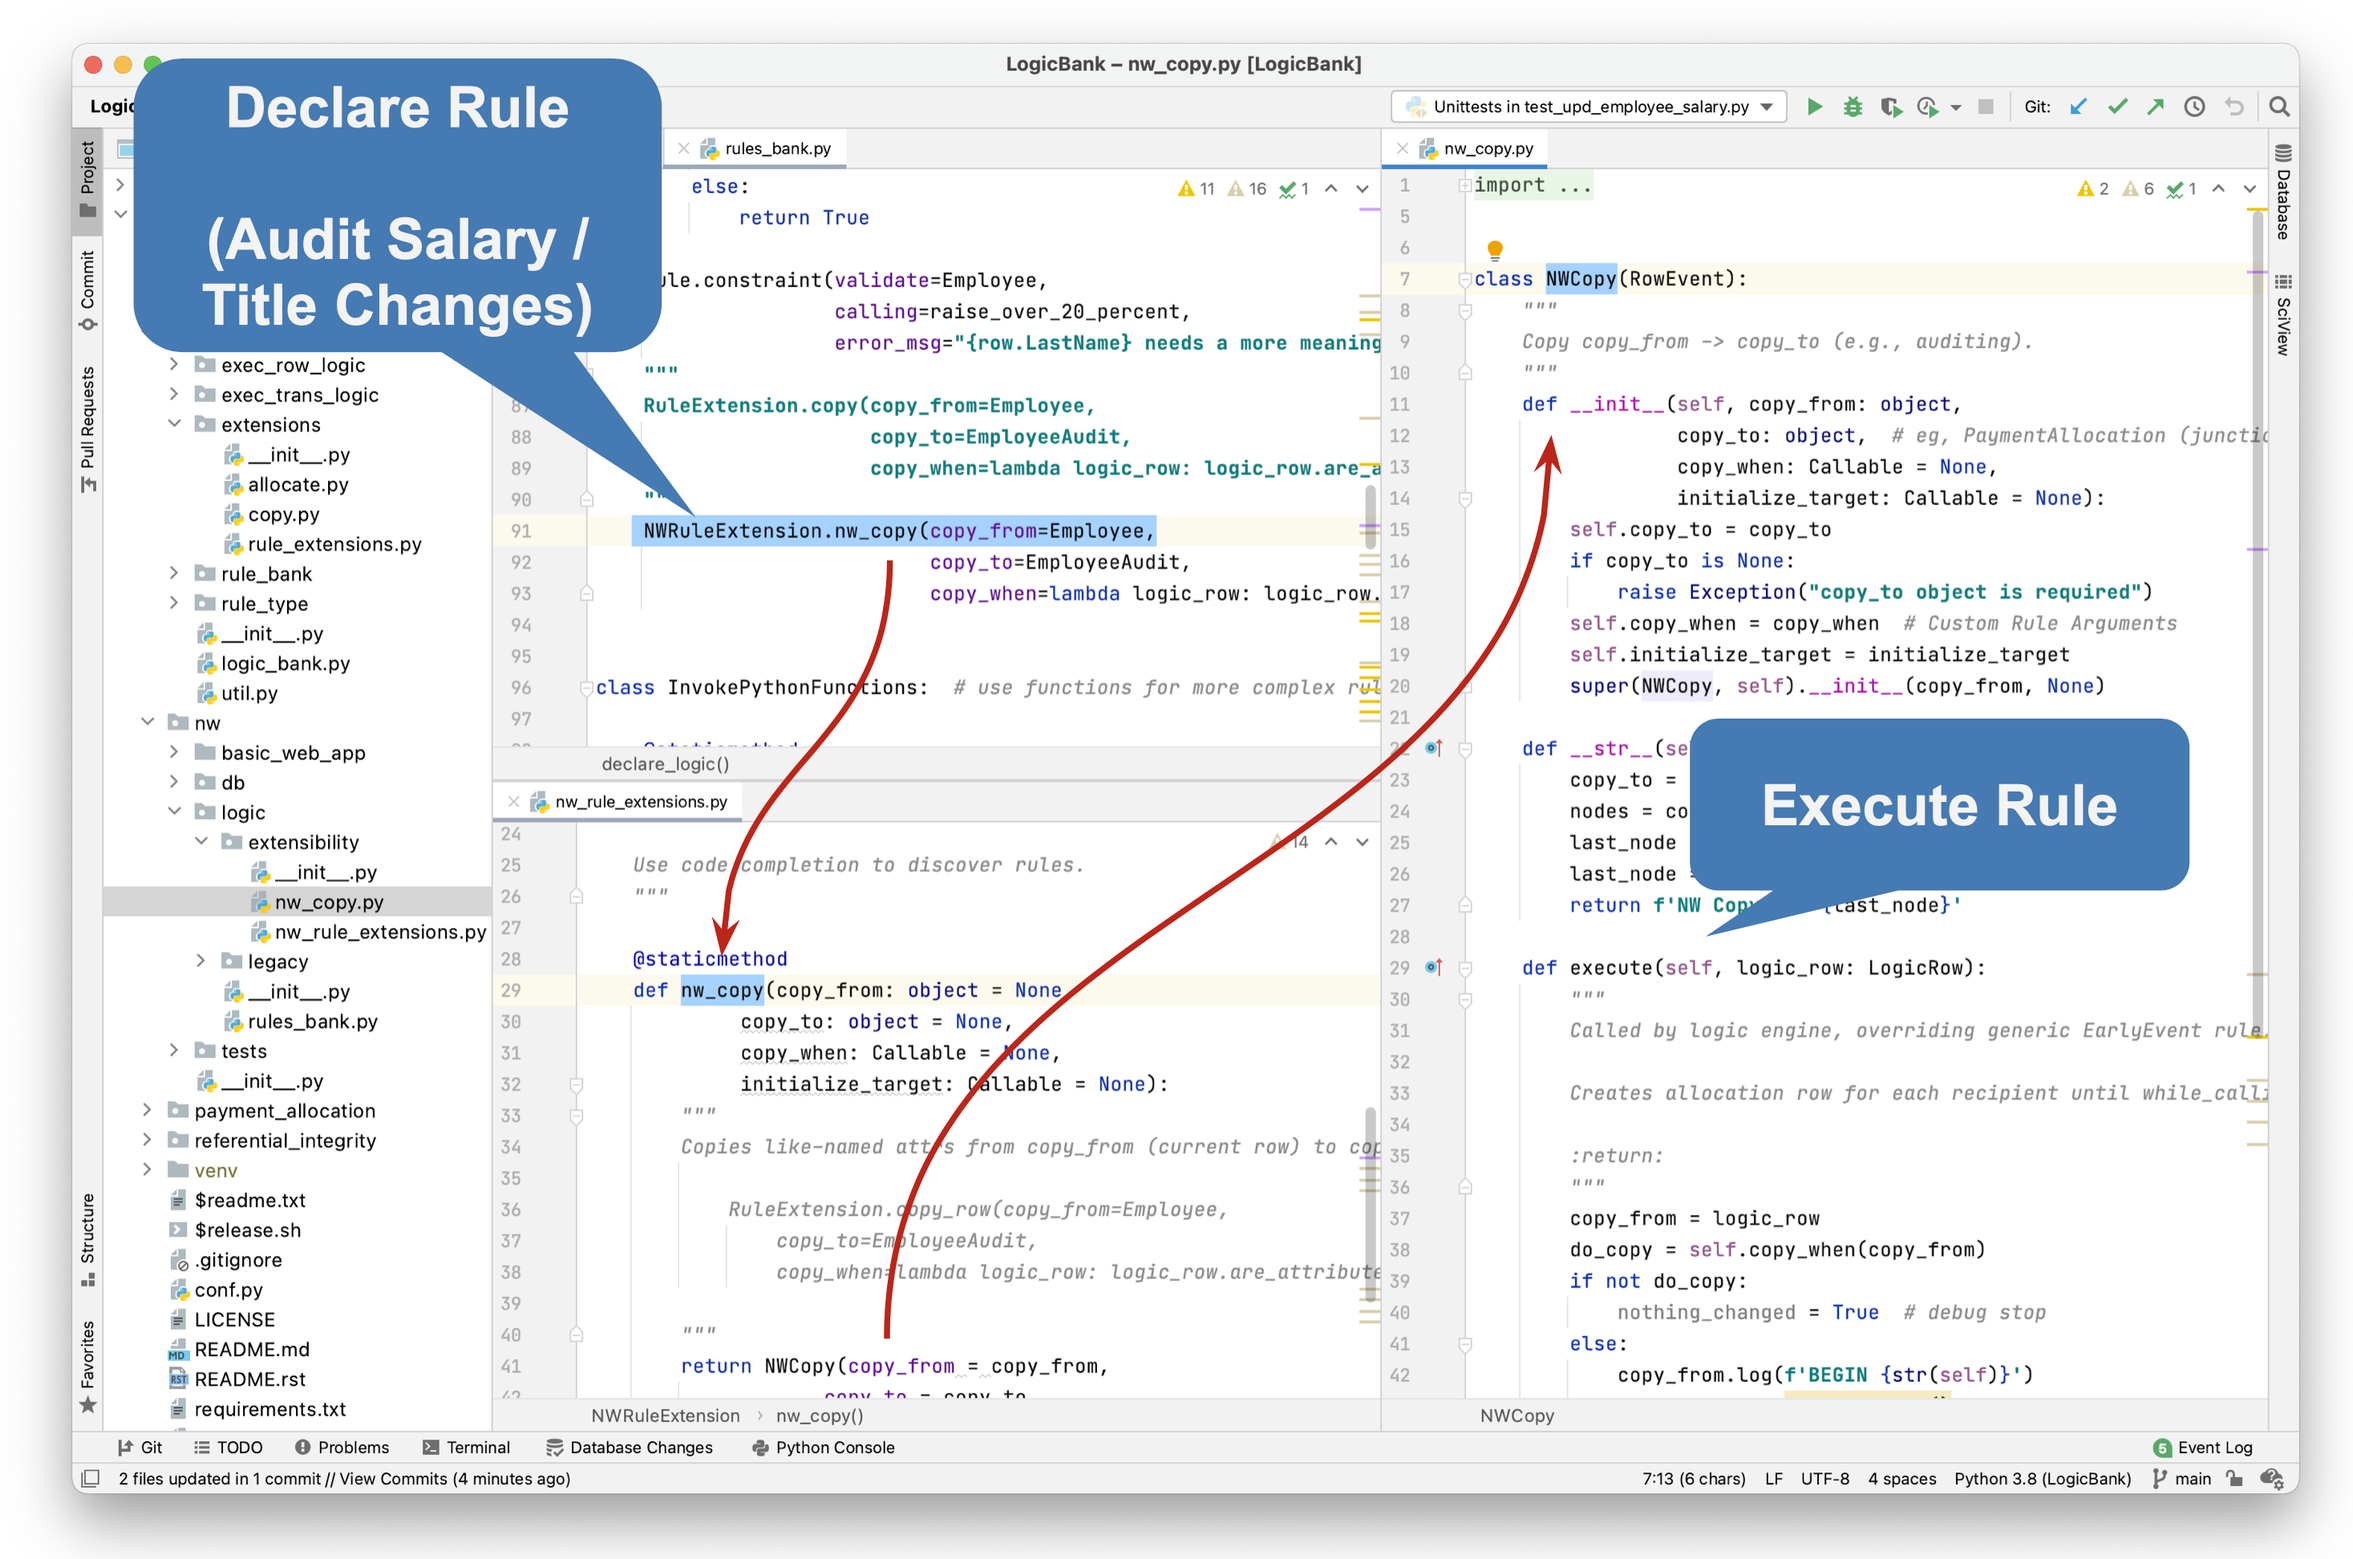
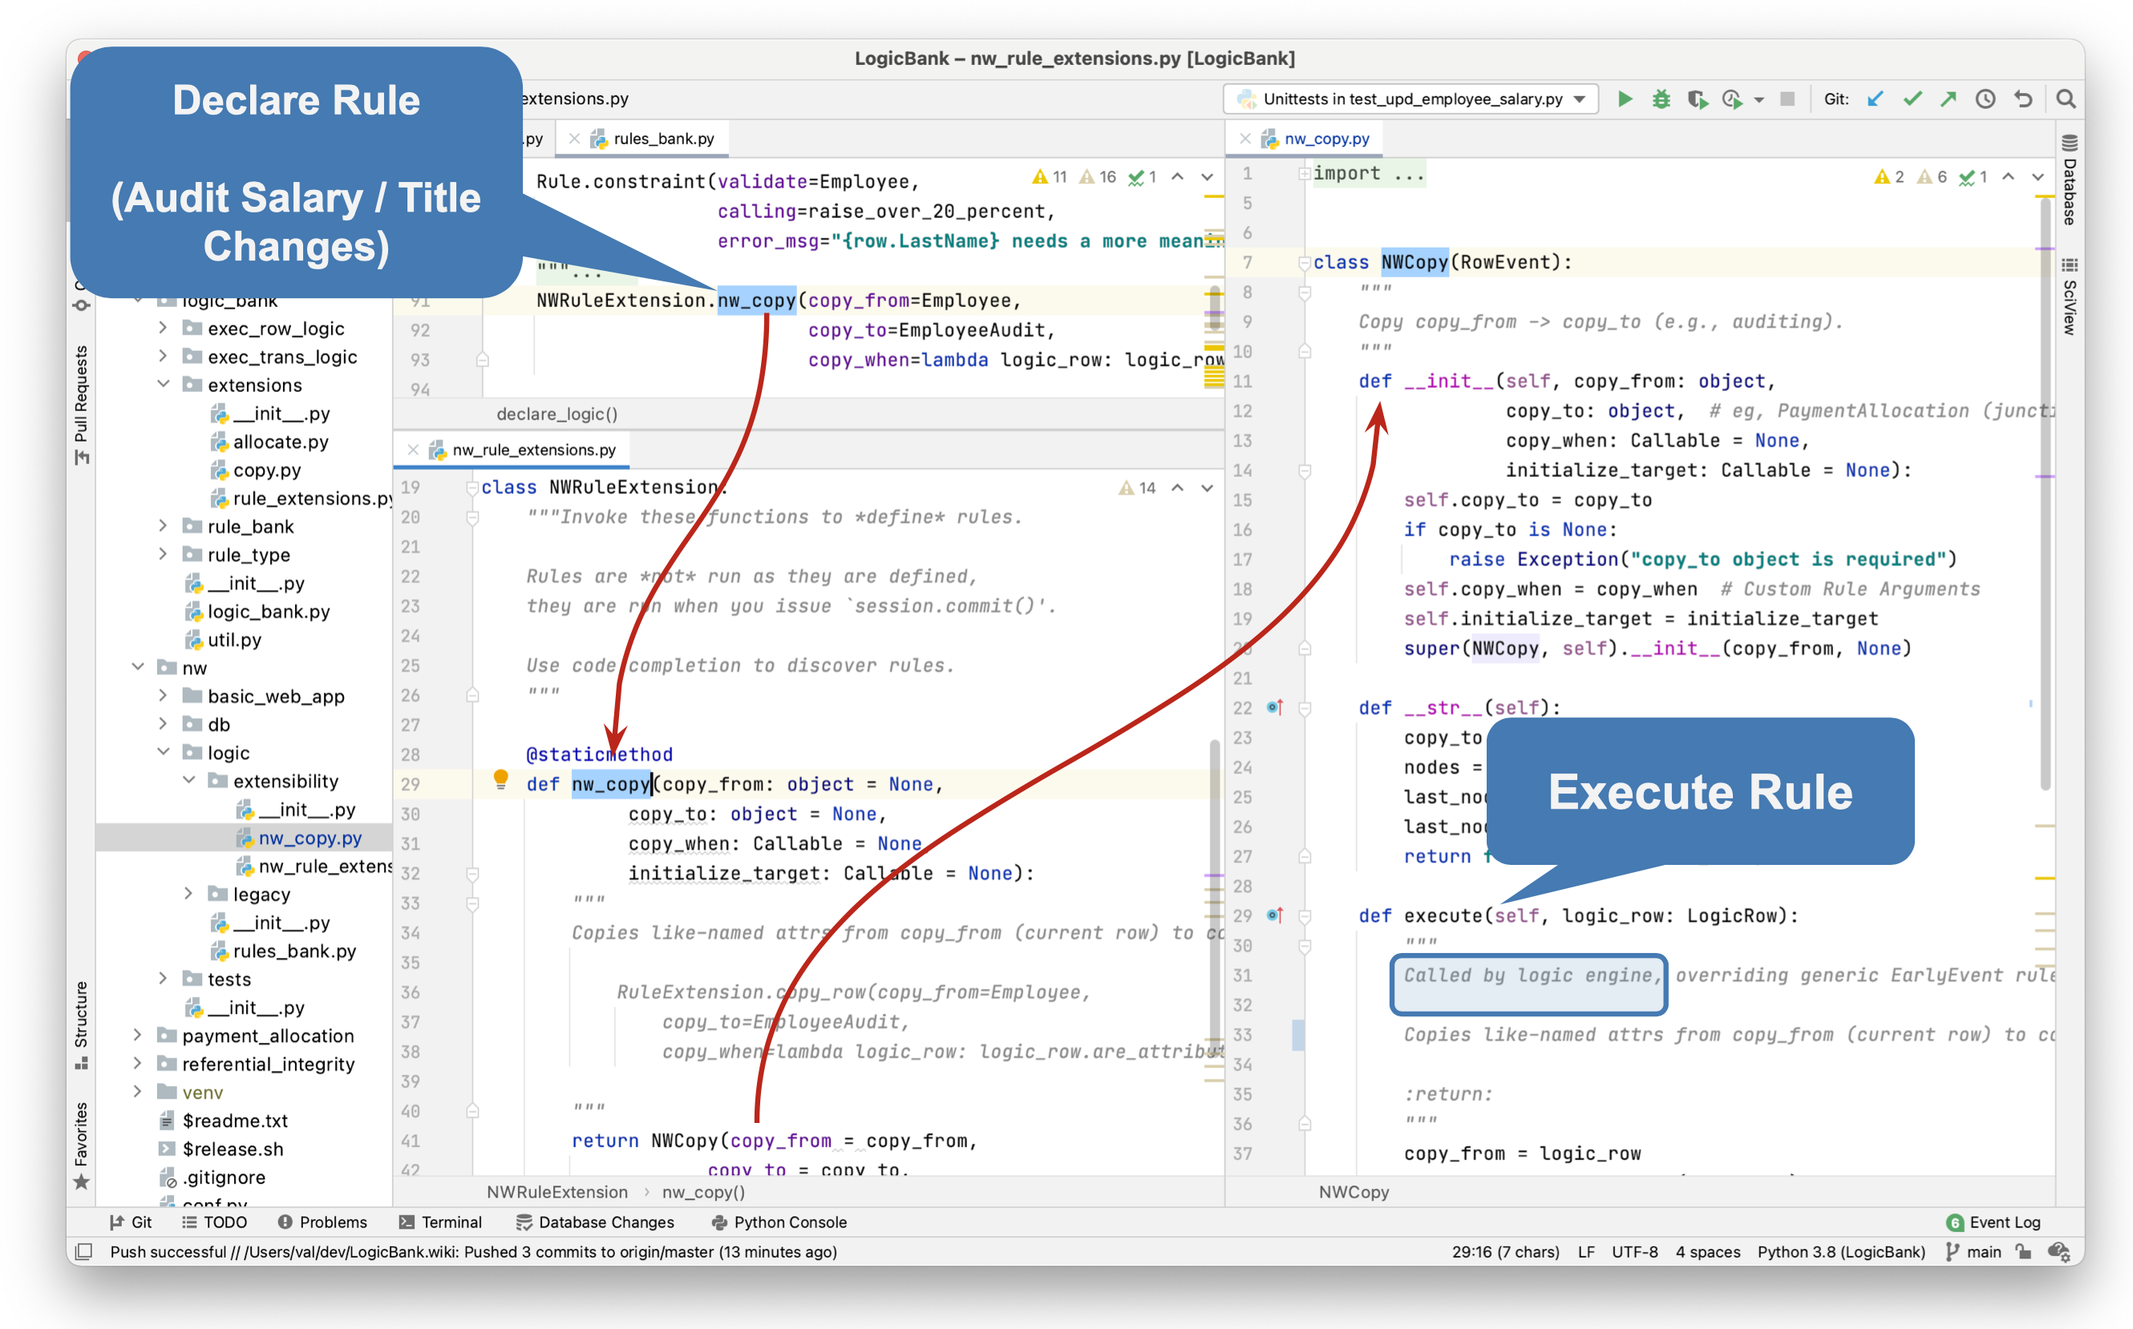
NW Rule Extensions example

diff --git a/nw/logic/extensibility/nw_copy.py b/nw/logic/extensibility/nw_copy.py
@@ -30,7 +30,7 @@ class NWCopy(RowEvent):
         """
         Called by logic engine, overriding generic EarlyEvent rule.
 
-        Creates allocation row for each recipient until while_calling_allocator returns false
+        Copies like-named attrs from copy_from (current row) to copy_to
 
         :return:
         """
